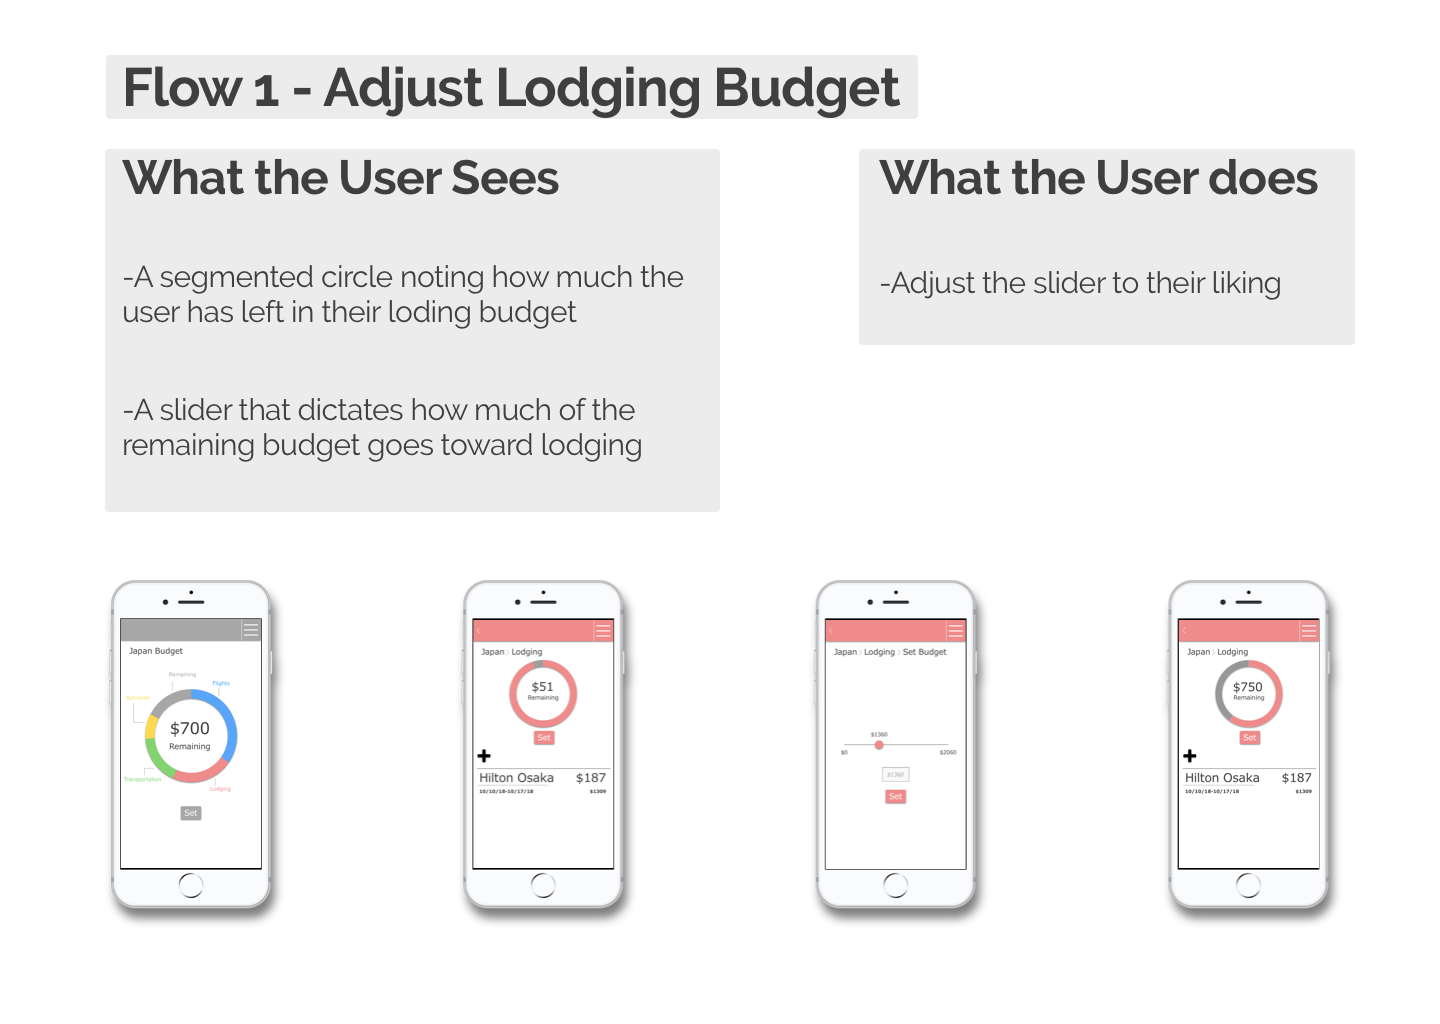
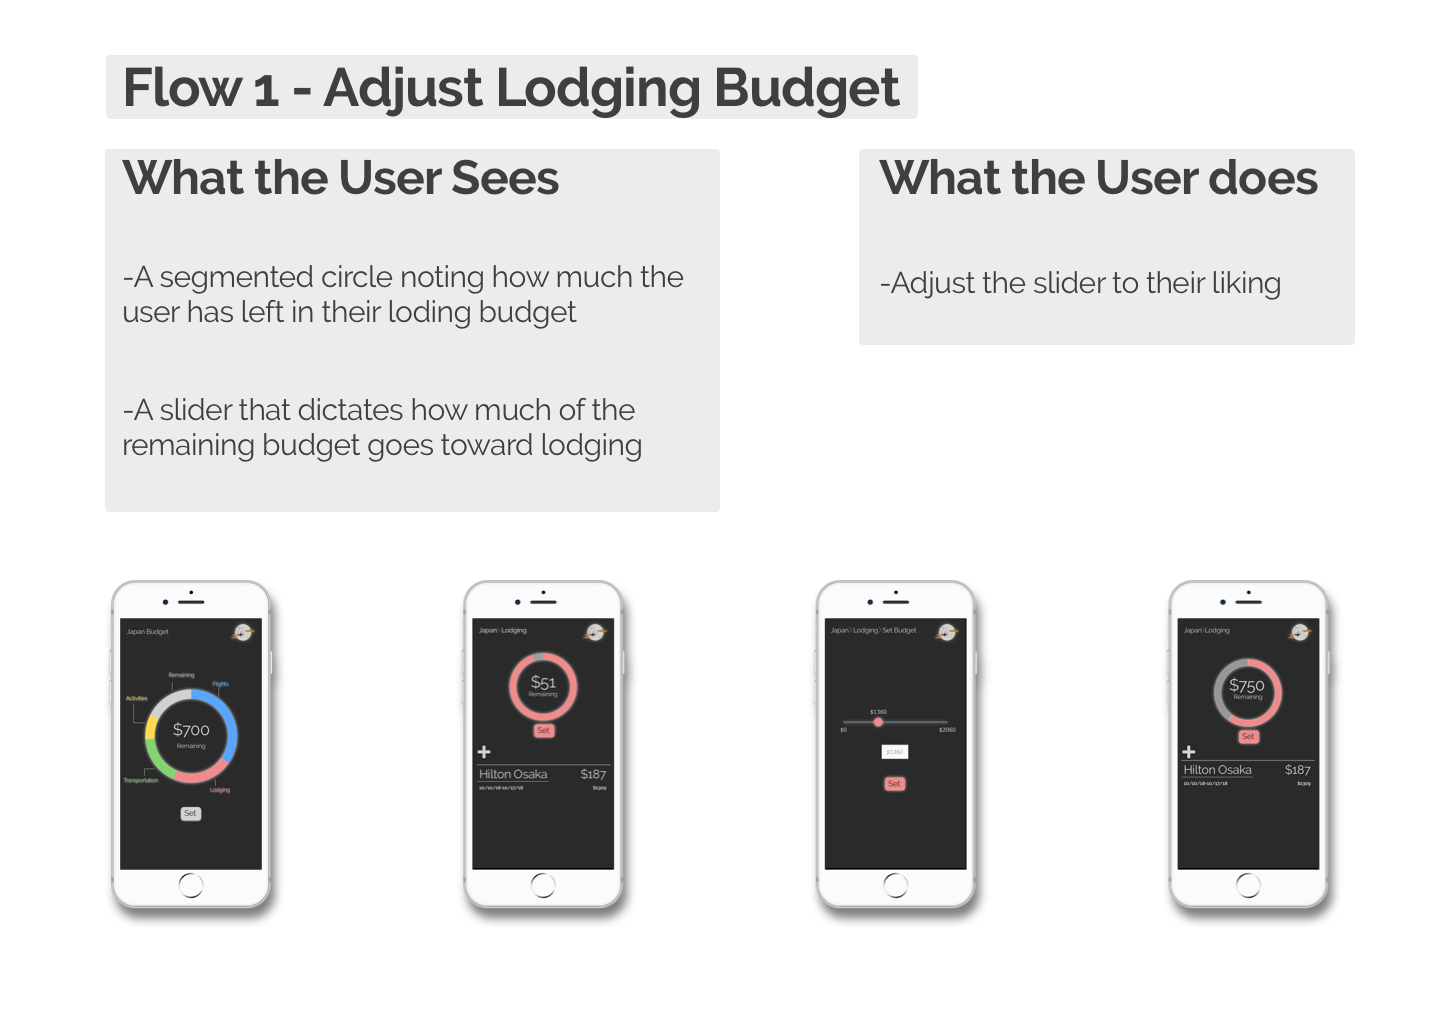
Created  new iterations of Khonsu Hifi comps

diff --git a/Crave.html b/Crave.html
@@ -42,7 +42,7 @@
         <div class="jumbotron data">
             <h2 class="details-topmargin">Our design team got to our problem statement by conducting several interviews and sending out 
                 a survey about what people look for and prioritize when looking for restaurants.<br> 
-                Below are the results we gathered from the survey and here is a link to the notes from the interviews we conducted.</h2>
+                Below are the results we gathered from the survey.</h2>
             <img src="Crave/Images/survey1.png" class="survey1"/>
             <img src="Crave/Images/survey2.png" class="survey2"/>
     

diff --git a/index.html b/index.html
@@ -22,9 +22,9 @@
         </nav>
         <div class="jumbotron welcome-background">
             <div class="welcome">
-                <p class="white-text">Hi there, I'm</p>
+                <h4 class="white-text"><em>Hi there, I'm</em></p>
                 <h1 class="myname white-text">Daniel Garrison</h1>
-                <p class="white-text"> A versitile UX/UI Designer</p>
+                <h4 class="white-text"> <em>A versitile UX/UI Designer</em></p>
             </div>
         </div>
         <a id="about-me"><div class="jumbotron about-me-section"></a>
